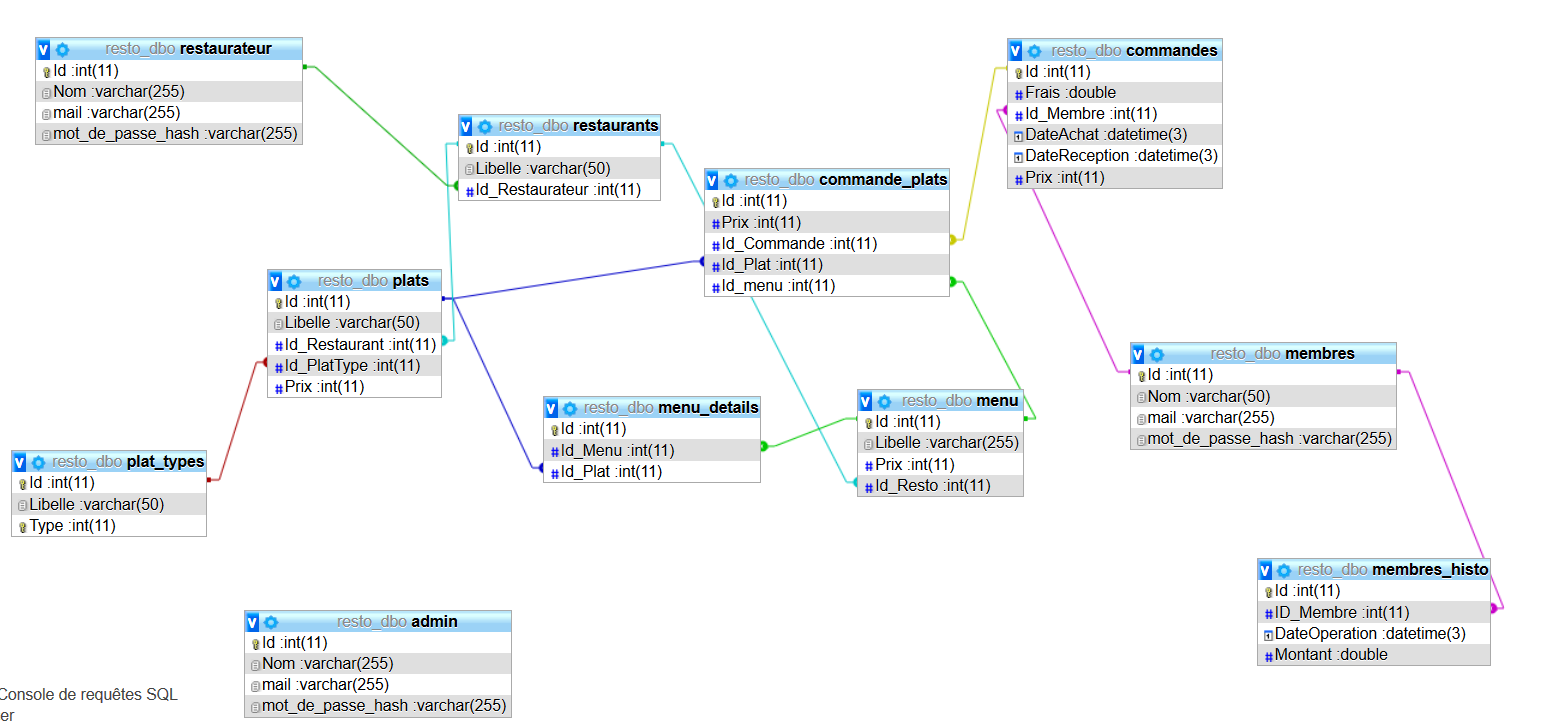
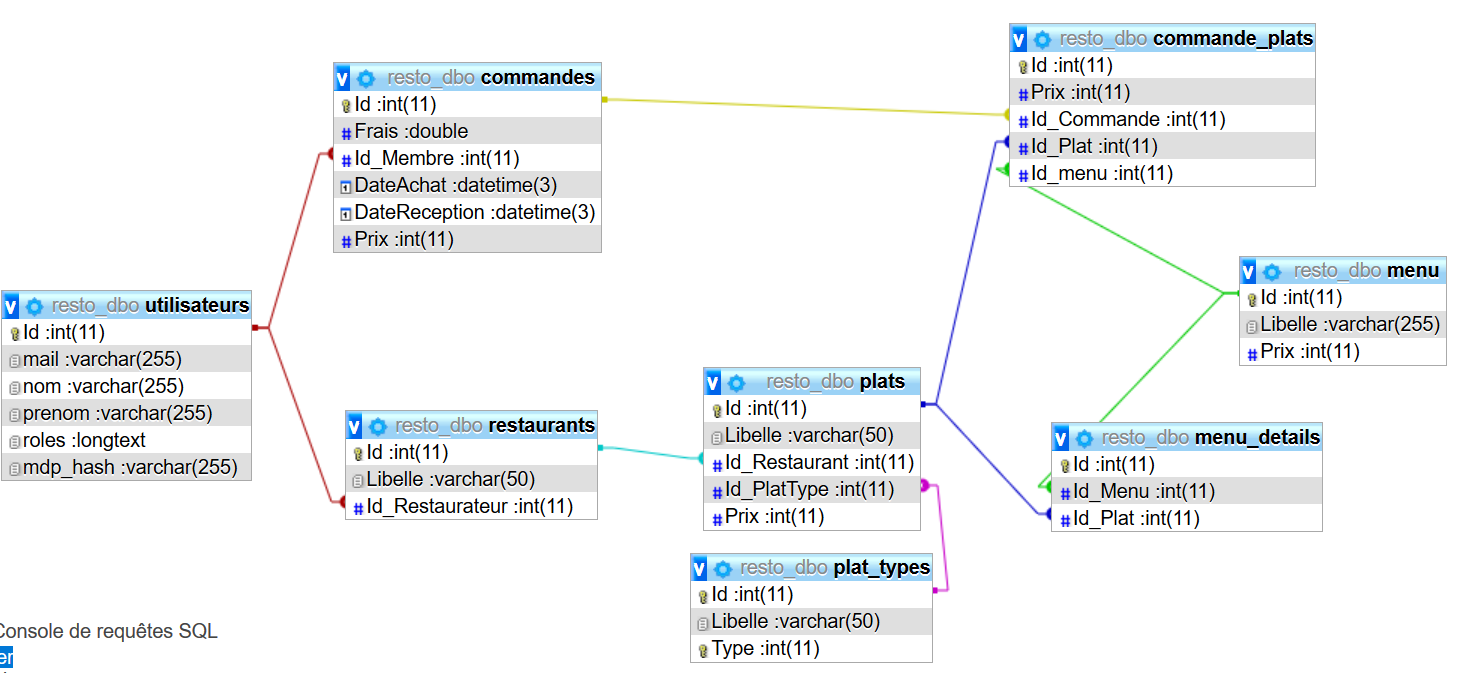
changements BDD selon les issues

diff --git a/ressources/README.md b/ressources/README.md
@@ -1,0 +1,19 @@
+# BDD
+
+Il y a 3 types de comptes stockés dans la table **utilisateurs**: 
+  * le compte client avec le rôle ["ROLE_MEMBRE"], 
+  * le compte du gérant du restaurant avec le rôle ["ROLE_RESTAURATEUR"], et 
+  * le compte administrateur avec le rôle ["ROLE_ADMIN"].
+
+Un restaurant créé est stocké dans la table **restaurants** avec une colonne *ID_restaurateur* pointant vers le gérant dans la table **utilisateurs**.
+
+Le restaurant ajoute ses plats à la BDD, chaque plat est lié à un restaurant d’où la clé étrangère *ID_restaurant*.
+
+Chaque plat possèdera aussi un type qui permettra de trier les plats.
+La table **plat_types** stockera ces types.
+
+Le restaurant peut aussi créer un menu avec un prix fixe stocké dans la table **menu**.
+La table **menu_details** permet de lier un menu aux plats le constituant.
+
+La table **commande** s’occupe de stocker les frais de la livraison et le prix de la commande après ces frais ainsi que les dates d’achat et de réception de la commande.
+La table **commande_plats** liée à cette table s’occupe elle de conserver les détails de cette commande, les plats ou menu la composant et le prix total sans les frais.
